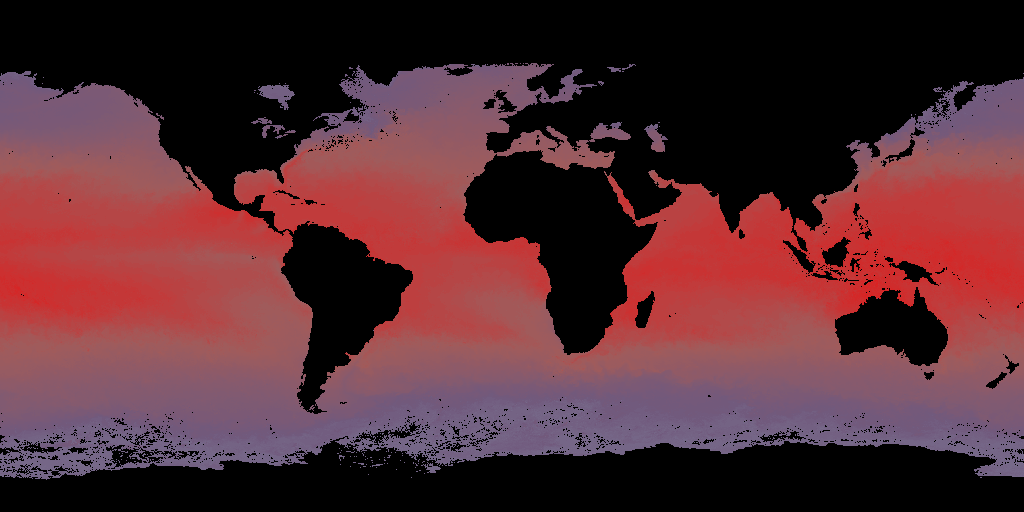
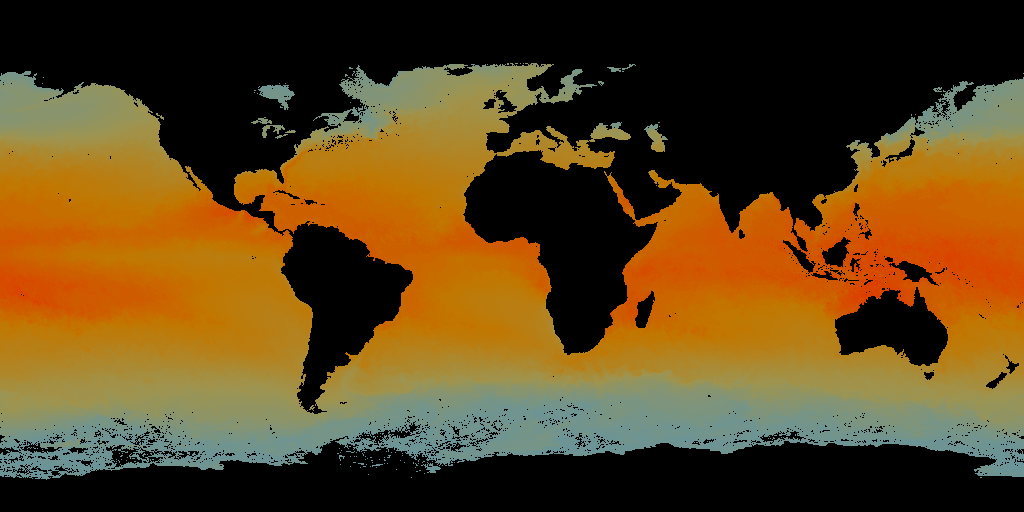
update color gradients, add parallelism to makeImages.py

diff --git a/js/config.js b/js/config.js
@@ -6,7 +6,7 @@ var CONFIG = {
   },
   "colorKey": {
     "el": "#color-key-canvas",
-    "gradient": "data/colorGradientAnomaly.json"
+    "gradient": "data/colorGradientRainbow.json"
   },
   "globes": [
     {
@@ -48,7 +48,7 @@ var CONFIG = {
       "minMag": 0.33,
       "precision": 0.01,
       "animationMs": 2000,
-      "geojsonLineColor": 0xdddddd,
+      "geojsonLineColor": 0x443820,
       "frames": [
         "data/atmosphere_wind/temperature/2016-01.png",
         "data/atmosphere_wind/temperature/2016-02.png",

diff --git a/js/globe.js b/js/globe.js
@@ -100,8 +100,8 @@ var Globe = (function() {
     this.camera.position.z = radius * 4.0;
 
     // ambient light
-    var aLight = new THREE.AmbientLight(0x888888);
-    this.scene.add(aLight);
+    // var aLight = new THREE.AmbientLight(0x888888);
+    // this.scene.add(aLight);
 
     // init controls
     this.controls = new THREE.OrbitControls(this.camera, $("#globes")[0]);

diff --git a/scripts/oceanCurrents/makeImages.py b/scripts/oceanCurrents/makeImages.py
@@ -8,6 +8,8 @@ import gzip
 import json
 from lib import *
 import math
+from multiprocessing import Pool
+from multiprocessing.dummy import Pool as ThreadPool
 import os
 from PIL import Image, ImageDraw
 from pprint import pprint
@@ -17,8 +19,8 @@ import sys
 parser = argparse.ArgumentParser()
 parser.add_argument('-in', dest="INPUT_FILE", default="../../data/sea_surface_temperature/MYD28M_2016-%s.CSV.gz", help="Input CSV files")
 parser.add_argument('-out', dest="OUTPUT_FILE", default="../../data/ocean_currents/temperature/2016-%s.png", help="Output image file")
-parser.add_argument('-grad', dest="GRADIENT_FILE", default="../../data/colorGradientAnomaly.json", help="Color gradient json file")
-parser.add_argument('-range', dest="RANGE", default="-35.0,40.0", help="Temperature range")
+parser.add_argument('-grad', dest="GRADIENT_FILE", default="../../data/colorGradientRainbow.json", help="Color gradient json file")
+parser.add_argument('-range', dest="RANGE", default="-20.0,40.0", help="Temperature range")
 parser.add_argument('-width', dest="WIDTH", type=int, default=1024, help="Target image width")
 parser.add_argument('-height', dest="HEIGHT", type=int, default=512, help="Target image height")
 
@@ -35,60 +37,56 @@ GRADIENT = []
 with open(GRADIENT_FILE) as f:
     GRADIENT = json.load(f)
 
-data = []
-print "Reading data..."
+params = []
 for month in range(12):
-    filename = INPUT_FILE % str(month+1).zfill(2)
+    params.append({
+        "index": month,
+        "fileIn": INPUT_FILE % str(month+1).zfill(2),
+        "fileOut": OUTPUT_FILE % str(month+1).zfill(2),
+        "height": HEIGHT,
+        "width": WIDTH,
+        "gradient": GRADIENT,
+        "range": RANGE
+    })
+
+def fileToImage(p):
+    fileIn = p["fileIn"]
+    fileOut = p["fileOut"]
+    width = p["width"]
+    height = p["height"]
+    gradient = p["gradient"]
+    vRange = p["range"]
+
+    print "Processing %s" % fileIn
     rows = []
-    with gzip.open(filename, 'rb') as f:
+    with gzip.open(fileIn, 'rb') as f:
         for line in f:
             row = [float(value) for value in line.split(",")]
             rows.append(row)
-    data.append(rows)
 
-    sys.stdout.write('\r')
-    sys.stdout.write("%s%%" % round(1.0*month/11*100,1))
-    sys.stdout.flush()
-lats = len(data[0])
-lons = len(data[0][0])
-
-total = lats * lons
-totalPixels = WIDTH * HEIGHT
-print "%s degrees (lon) by %s degrees (lat) = %s (total)" % (lons, lats, total)
-
-mint = 999
-maxt = -999
-ts = []
-
-for month, monthData in enumerate(data):
-    filename = OUTPUT_FILE % str(month+1).zfill(2)
-    print "Processing %s" % filename
-
-    im = Image.new("RGB", (WIDTH, HEIGHT), (0, 0, 0))
+    lats = len(rows)
+    lons = len(rows[0])
+    im = Image.new("RGB", (width, height), (0, 0, 0))
     pixels = im.load()
 
-    for y in range(HEIGHT):
-        for x in range(WIDTH):
-            lat = int(round((1.0 * y / (HEIGHT-1)) * (lats-1)))
-            lon = int(round((1.0 * x / (WIDTH-1)) * (lons-1)))
-            t = monthData[lat][lon]
+    for y in range(height):
+        for x in range(width):
+            lat = int(round((1.0 * y / (height-1)) * (lats-1)))
+            lon = int(round((1.0 * x / (width-1)) * (lons-1)))
+            t = rows[lat][lon]
 
             if t < 99999:
-                if t > maxt:
-                    maxt = t
-                if t < mint:
-                    mint = t
-                ts.append(t)
-                n = norm(t, RANGE[0], RANGE[1])
-                color = getColor(GRADIENT, n)
+                n = norm(t, vRange[0], vRange[1])
+                color = getColor(gradient, n)
                 pixels[x, y] = color
 
-            i = y * WIDTH + x
-            sys.stdout.write('\r')
-            sys.stdout.write("%s%%" % round(1.0*i/totalPixels*100,1))
-            sys.stdout.flush()
+    im.save(fileOut)
+    print "Saved %s" % fileOut
 
-    im.save(filename)
+print "Processing data..."
+pool = ThreadPool()
+pool.map(fileToImage, params)
+pool.close()
+pool.join()
 
-print "Range: %s, %s" % (mint, maxt)
-print "Mean: %s" % mean(ts)
+print "Done."

diff --git a/scripts/atmosphereWind/makeImages.py b/scripts/atmosphereWind/makeImages.py
@@ -6,6 +6,8 @@ import datetime
 import json
 from lib import *
 import math
+from multiprocessing import Pool
+from multiprocessing.dummy import Pool as ThreadPool
 import os
 from PIL import Image, ImageDraw
 from pprint import pprint
@@ -15,8 +17,8 @@ import sys
 parser = argparse.ArgumentParser()
 parser.add_argument('-in', dest="INPUT_FILE", default="../../data/atmosphere_wind/gfsanl_4_100000_monthly.json", help="Input json file")
 parser.add_argument('-out', dest="OUTPUT_FILE", default="../../data/atmosphere_wind/temperature/2016-%s.png", help="Output image file")
-parser.add_argument('-grad', dest="GRADIENT_FILE", default="../../data/colorGradientAnomaly.json", help="Color gradient json file")
-parser.add_argument('-range', dest="RANGE", default="-35.0,40.0", help="Temperature range")
+parser.add_argument('-grad', dest="GRADIENT_FILE", default="../../data/colorGradientRainbow.json", help="Color gradient json file")
+parser.add_argument('-range', dest="RANGE", default="-20.0,40.0", help="Temperature range")
 parser.add_argument('-width', dest="WIDTH", type=int, default=1024, help="Target image width")
 parser.add_argument('-height', dest="HEIGHT", type=int, default=512, help="Target image height")
 
@@ -49,34 +51,53 @@ mint = 999
 maxt = -999
 ts = []
 
-for month, monthData in enumerate(tData):
-    filename = OUTPUT_FILE % str(month+1).zfill(2)
-    print "Processing %s" % filename
+params = []
 
-    im = Image.new("RGB", (WIDTH, HEIGHT), (0, 0, 0))
+for month, monthData in enumerate(tData):
+    params.append({
+        "index": month,
+        "fileOut": OUTPUT_FILE % str(month+1).zfill(2),
+        "data": monthData,
+        "height": HEIGHT,
+        "width": WIDTH,
+        "gradient": GRADIENT,
+        "range": RANGE,
+        "lats": lats,
+        "lons": lons
+    })
+
+def processImage(p):
+    fileOut = p["fileOut"]
+    data = p["data"]
+    width = p["width"]
+    height = p["height"]
+    gradient = p["gradient"]
+    vRange = p["range"]
+    lats = p["lats"]
+    lons = p["lons"]
+
+    print "Processing %s" % fileOut
+
+    im = Image.new("RGB", (width, height), (0, 0, 0))
     pixels = im.load()
 
-    for y in range(HEIGHT):
-        for x in range(WIDTH):
-            lat = int(round((1.0 * y / (HEIGHT-1)) * (lats-1)))
-            lon = int(round((1.0 * x / (WIDTH-1)) * (lons-1)))
+    for y in range(height):
+        for x in range(width):
+            lat = int(round((1.0 * y / (height-1)) * (lats-1)))
+            lon = int(round((1.0 * x / (width-1)) * (lons-1)))
             index = lat * lons + lon
-            t = monthData[index]
-            if t > maxt:
-                maxt = t
-            if t < mint:
-                mint = t
-            ts.append(t)
-            n = norm(t, RANGE[0], RANGE[1])
-            color = getColor(GRADIENT, n)
+            t = data[index]
+            n = norm(t, vRange[0], vRange[1])
+            color = getColor(gradient, n)
             pixels[x, y] = color
 
-            i = y * WIDTH + x
-            sys.stdout.write('\r')
-            sys.stdout.write("%s%%" % round(1.0*i/totalPixels*100,1))
-            sys.stdout.flush()
+    im.save(fileOut)
+    print "Saved %s" % fileOut
 
-    im.save(filename)
+print "Processing data..."
+pool = ThreadPool()
+pool.map(processImage, params)
+pool.close()
+pool.join()
 
-print "Range: %s, %s" % (mint, maxt)
-print "Mean: %s" % mean(ts)
+print "Done."

diff --git a/scripts/generateGradient.py b/scripts/generateGradient.py
@@ -6,9 +6,9 @@ from pprint import pprint
 import sys
 
 parser = argparse.ArgumentParser()
-parser.add_argument('-grad', dest="GRADIENT", default="#42a6ff,#89a2b7,#71597c,#a05b5b,#fc0000", help="Color gradient")
+parser.add_argument('-grad', dest="GRADIENT", default="#42a6ff,#5994af,#9e944f,#c17700,#fc0000", help="Color gradient")
 parser.add_argument('-width', dest="STEPS", type=int, default=100, help="Steps in gradient")
-parser.add_argument('-out', dest="OUTPUT_FILE", default="../data/colorGradientAnomaly.json", help="Output JSON file")
+parser.add_argument('-out', dest="OUTPUT_FILE", default="../data/colorGradientRainbow.json", help="Output JSON file")
 
 args = parser.parse_args()
 

diff --git a/README.md b/README.md
@@ -1,1 +1,23 @@
-# climate-data-on-globe
+# Climate Data on a Globe
+
+## Running the interactive
+
+Running the interactive is pretty easy since this is a one-page static website:
+
+```
+npm install
+npm start
+```
+
+Then go to [http://localhost:8080/](http://localhost:8080/)
+
+
+## Process new data from scratch
+
+This is a bit more involved since you're working with a lot of data. This outlines the steps to generate new data for (1) Ocean surface currents and temperature, and (2) Atmospheric winds and temperature
+
+### 1. Process new ocean currents data
+
+1.
+
+### 2. Process atmospheric wind data
